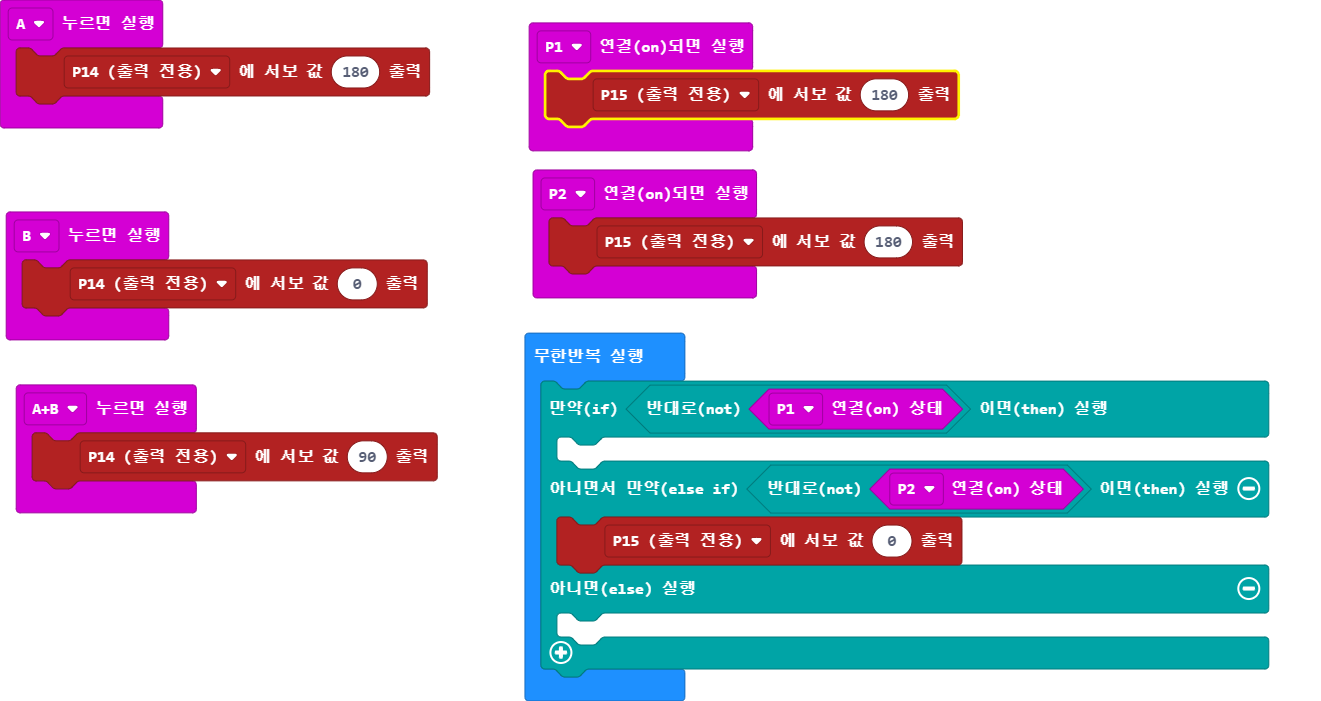
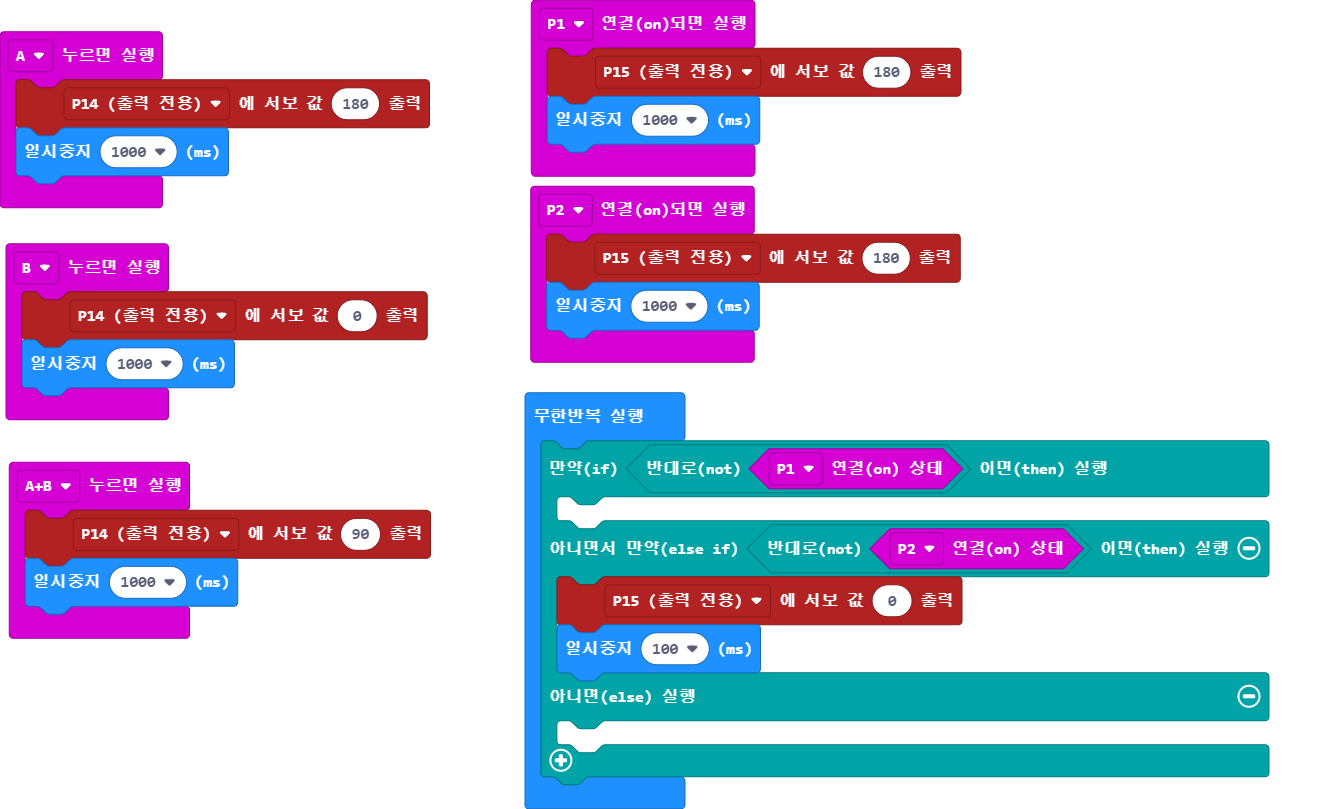
main.blocks, main.ts 업데이트하기

diff --git a/main.ts b/main.ts
@@ -1,23 +1,29 @@
 input.onButtonPressed(Button.A, function () {
     pins.servoWritePin(AnalogPin.P14, 180)
+    basic.pause(1000)
 })
 input.onPinPressed(TouchPin.P2, function () {
     pins.servoWritePin(AnalogPin.P15, 180)
+    basic.pause(1000)
 })
 input.onButtonPressed(Button.AB, function () {
     pins.servoWritePin(AnalogPin.P14, 90)
+    basic.pause(1000)
 })
 input.onButtonPressed(Button.B, function () {
     pins.servoWritePin(AnalogPin.P14, 0)
+    basic.pause(1000)
 })
 input.onPinPressed(TouchPin.P1, function () {
     pins.servoWritePin(AnalogPin.P15, 180)
+    basic.pause(1000)
 })
 basic.forever(function () {
     if (!(input.pinIsPressed(TouchPin.P1))) {
     	
     } else if (!(input.pinIsPressed(TouchPin.P2))) {
         pins.servoWritePin(AnalogPin.P15, 0)
+        basic.pause(100)
     } else {
     	
     }
